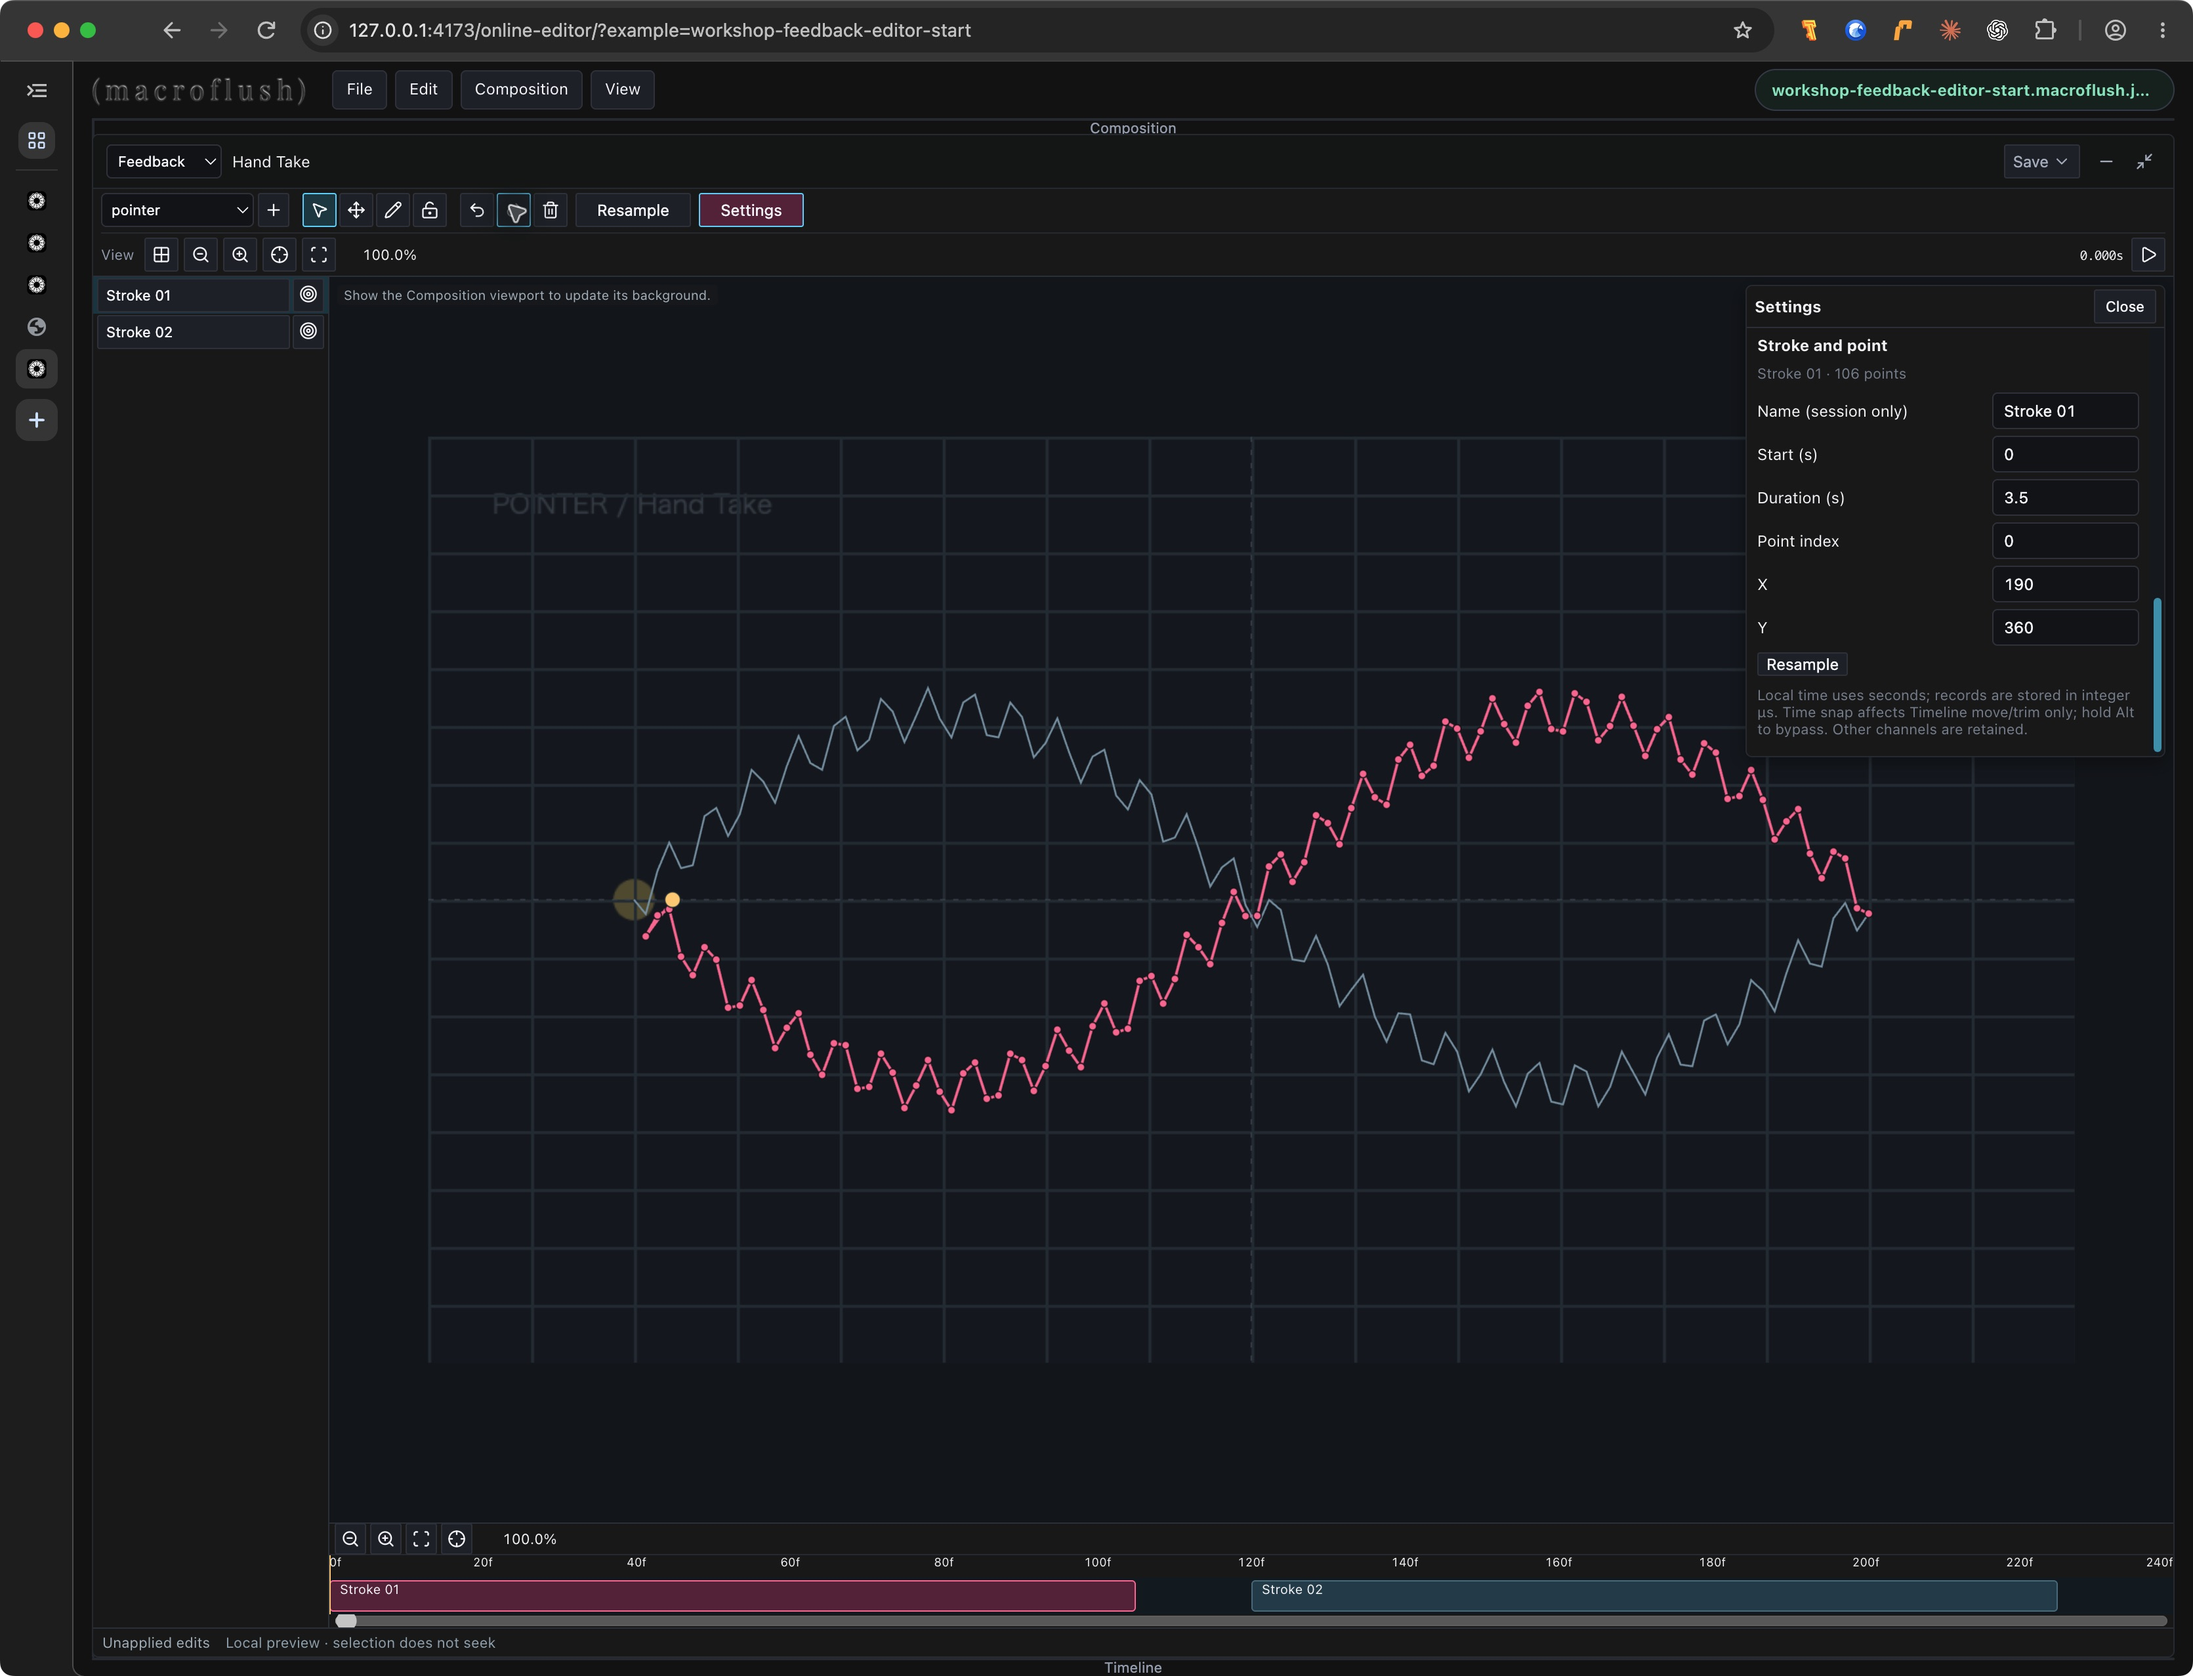
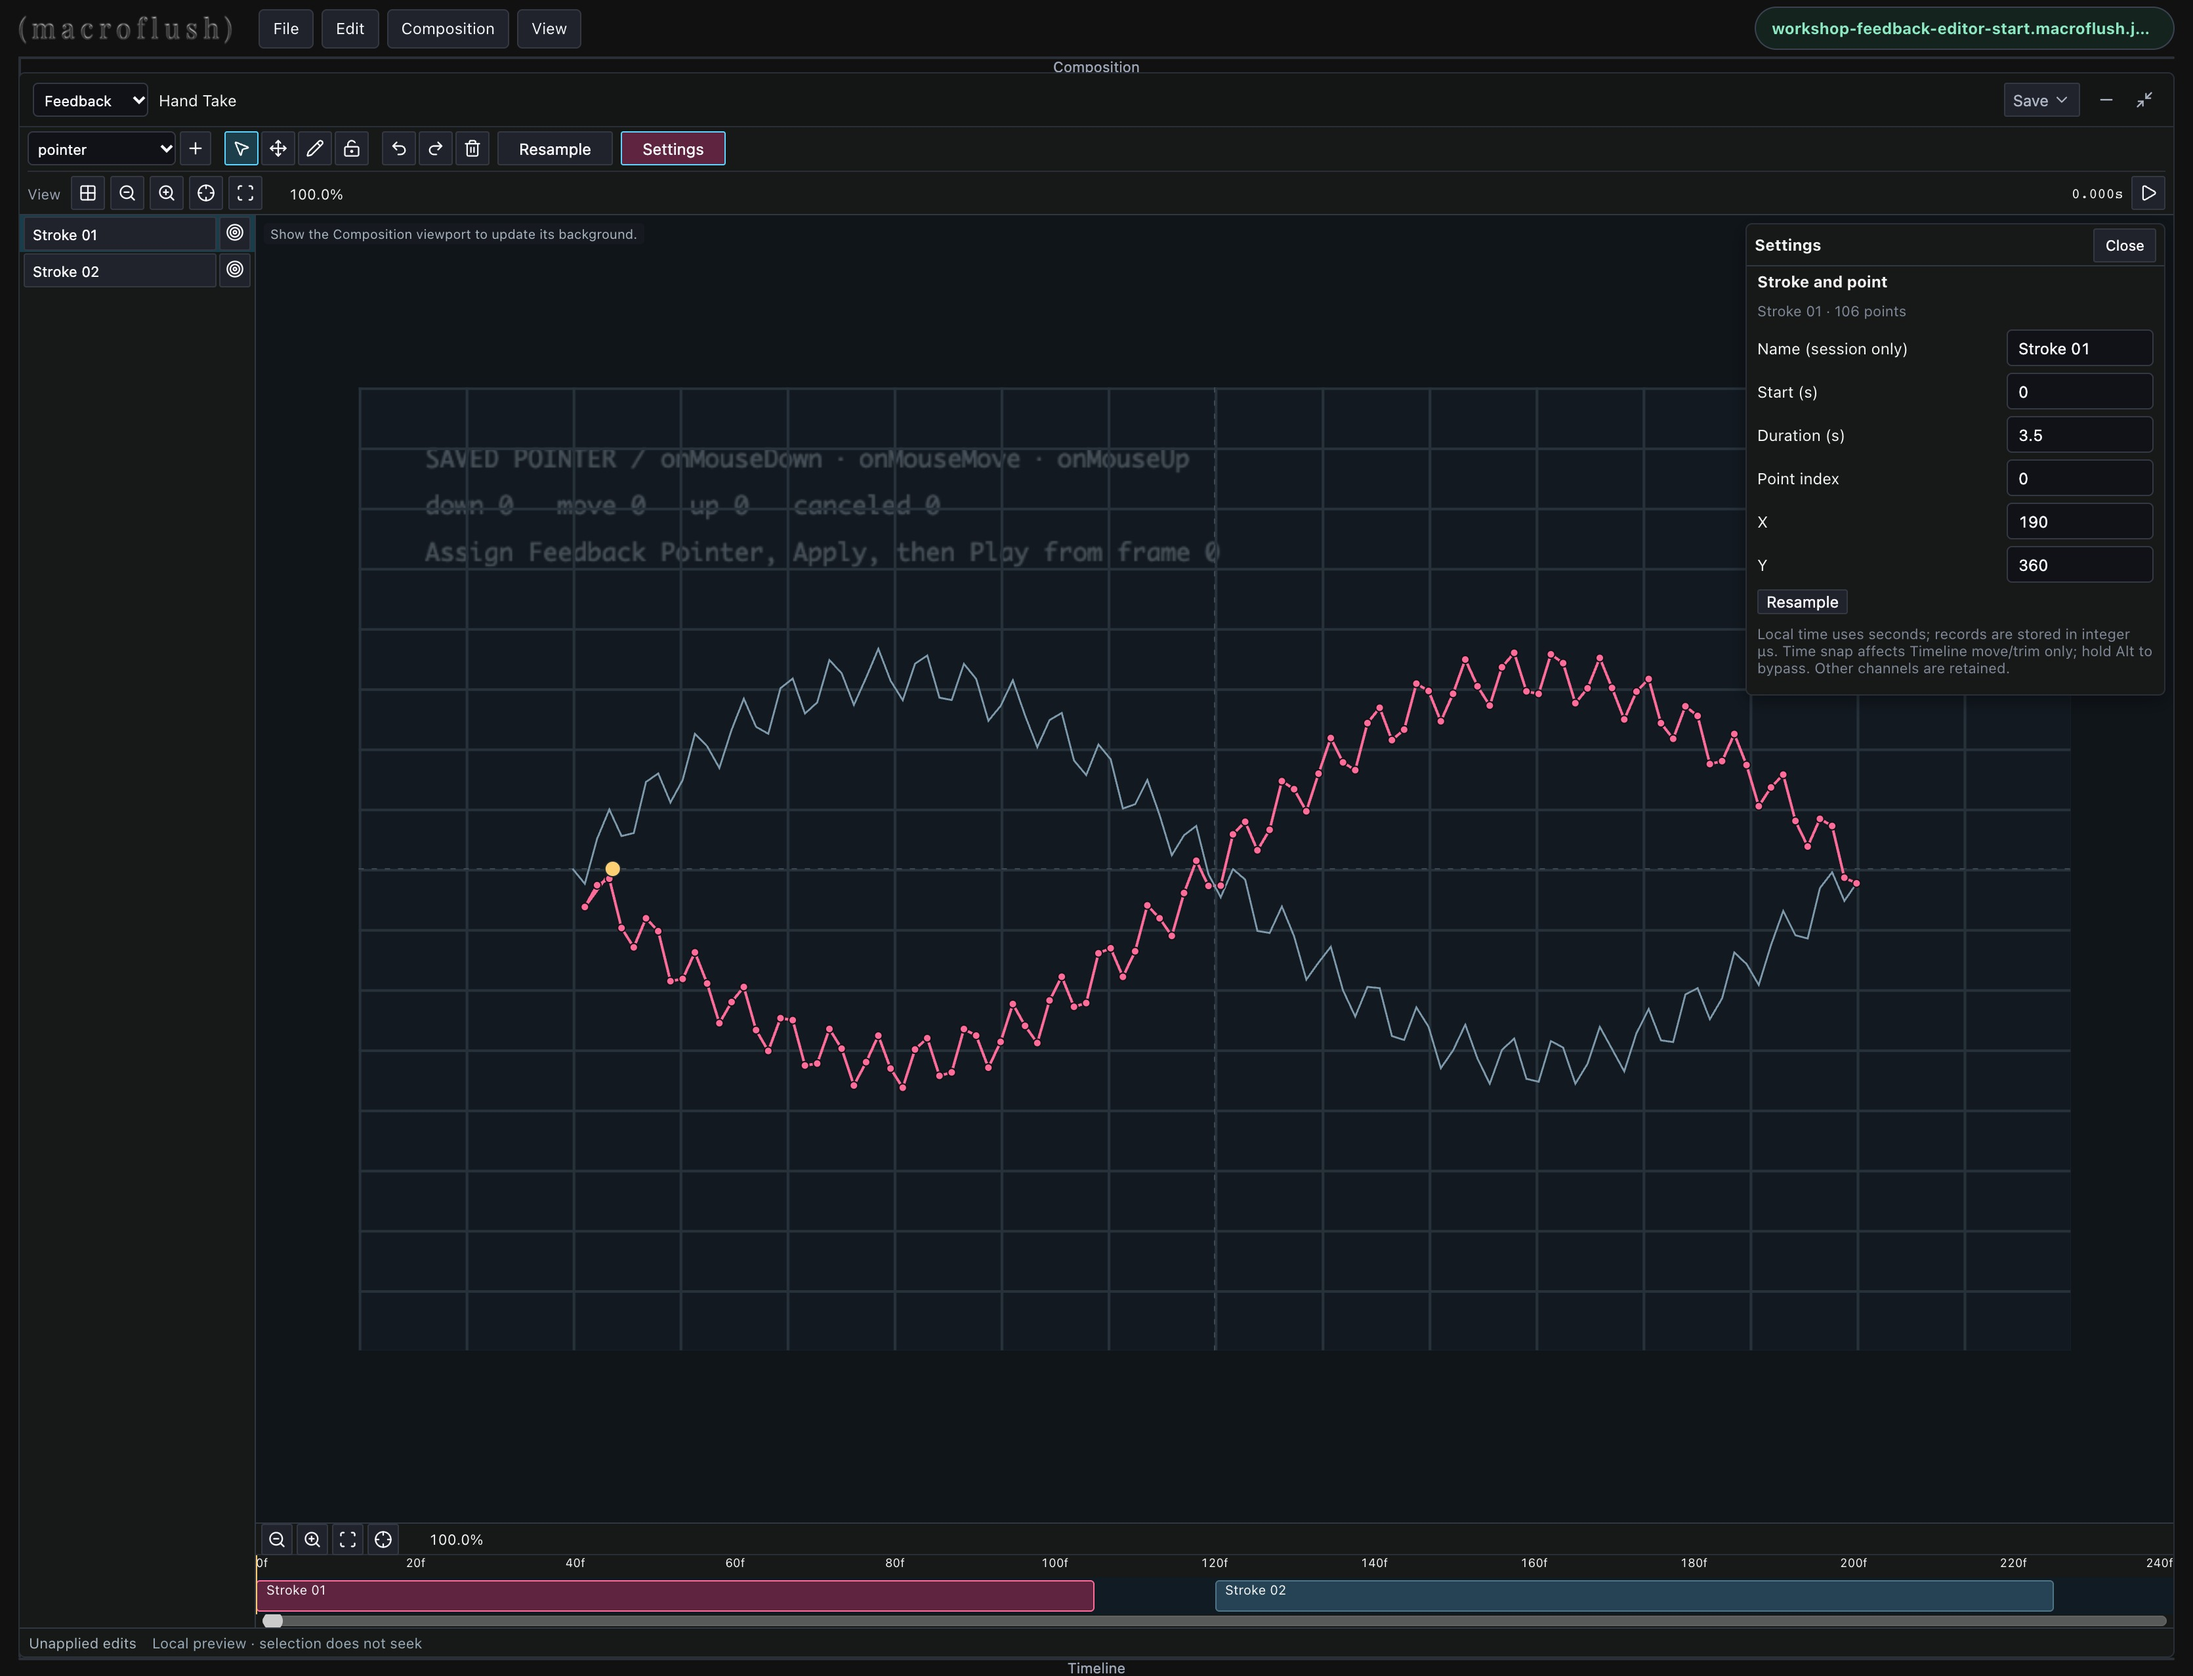
Refresh Feedback Editor screenshots without browser chrome

diff --git a/assets/tutorials/feedback-editor/README.md b/assets/tutorials/feedback-editor/README.md
@@ -1,10 +1,10 @@
 # Feedback Editor screenshots
 
-Captured from the repository's actual browser Editor in Chrome on 2026-11-14. JPEGs are 3342 × 2554 and include browser context.
+Recaptured from the repository's actual browser Editor in Chrome on 2026-11-17. JPEGs are 3342 × 2554 and contain only the Editor viewport, without the browser tab bar, address bar or sidebar. The viewport was 1671 × 1277 CSS pixels at device scale factor 2.
 
 - `01-workspace.jpg`: opened `workshop-feedback-editor-start`, used Inspector Edit source…, maximized Editor, selected Stroke 01 and changed its first point X from 160 to 190. Local Undo restored 160; Redo restored 190. The screenshot shows the unapplied state.
 - `02-save-menu.jpg`: the same draft with Save open, displaying Add as new, Replace original, Export Feedback JSON and Discard.
 
-After capture, Add as new was exercised through its confirmation dialog: Project gained `Hand Take_copy` while the original `Hand Take` and the Clip's `takeName` reference remained unchanged. The local browser project was a disposable copy; the authored JSONs on disk were not changed by these UI checks.
+The current starter uses the Inspector-assigned Pointer source with `onMouseDown()`, `onMouseMove()` and `onMouseUp()`. Both captures show the same unapplied draft; no Save menu action was applied. The local browser project was a disposable copy; the authored JSONs on disk were not changed by these UI checks.
 
 This records browser UI checks performed for the website. It does not retroactively change the neighboring application's published native-app validation history.
